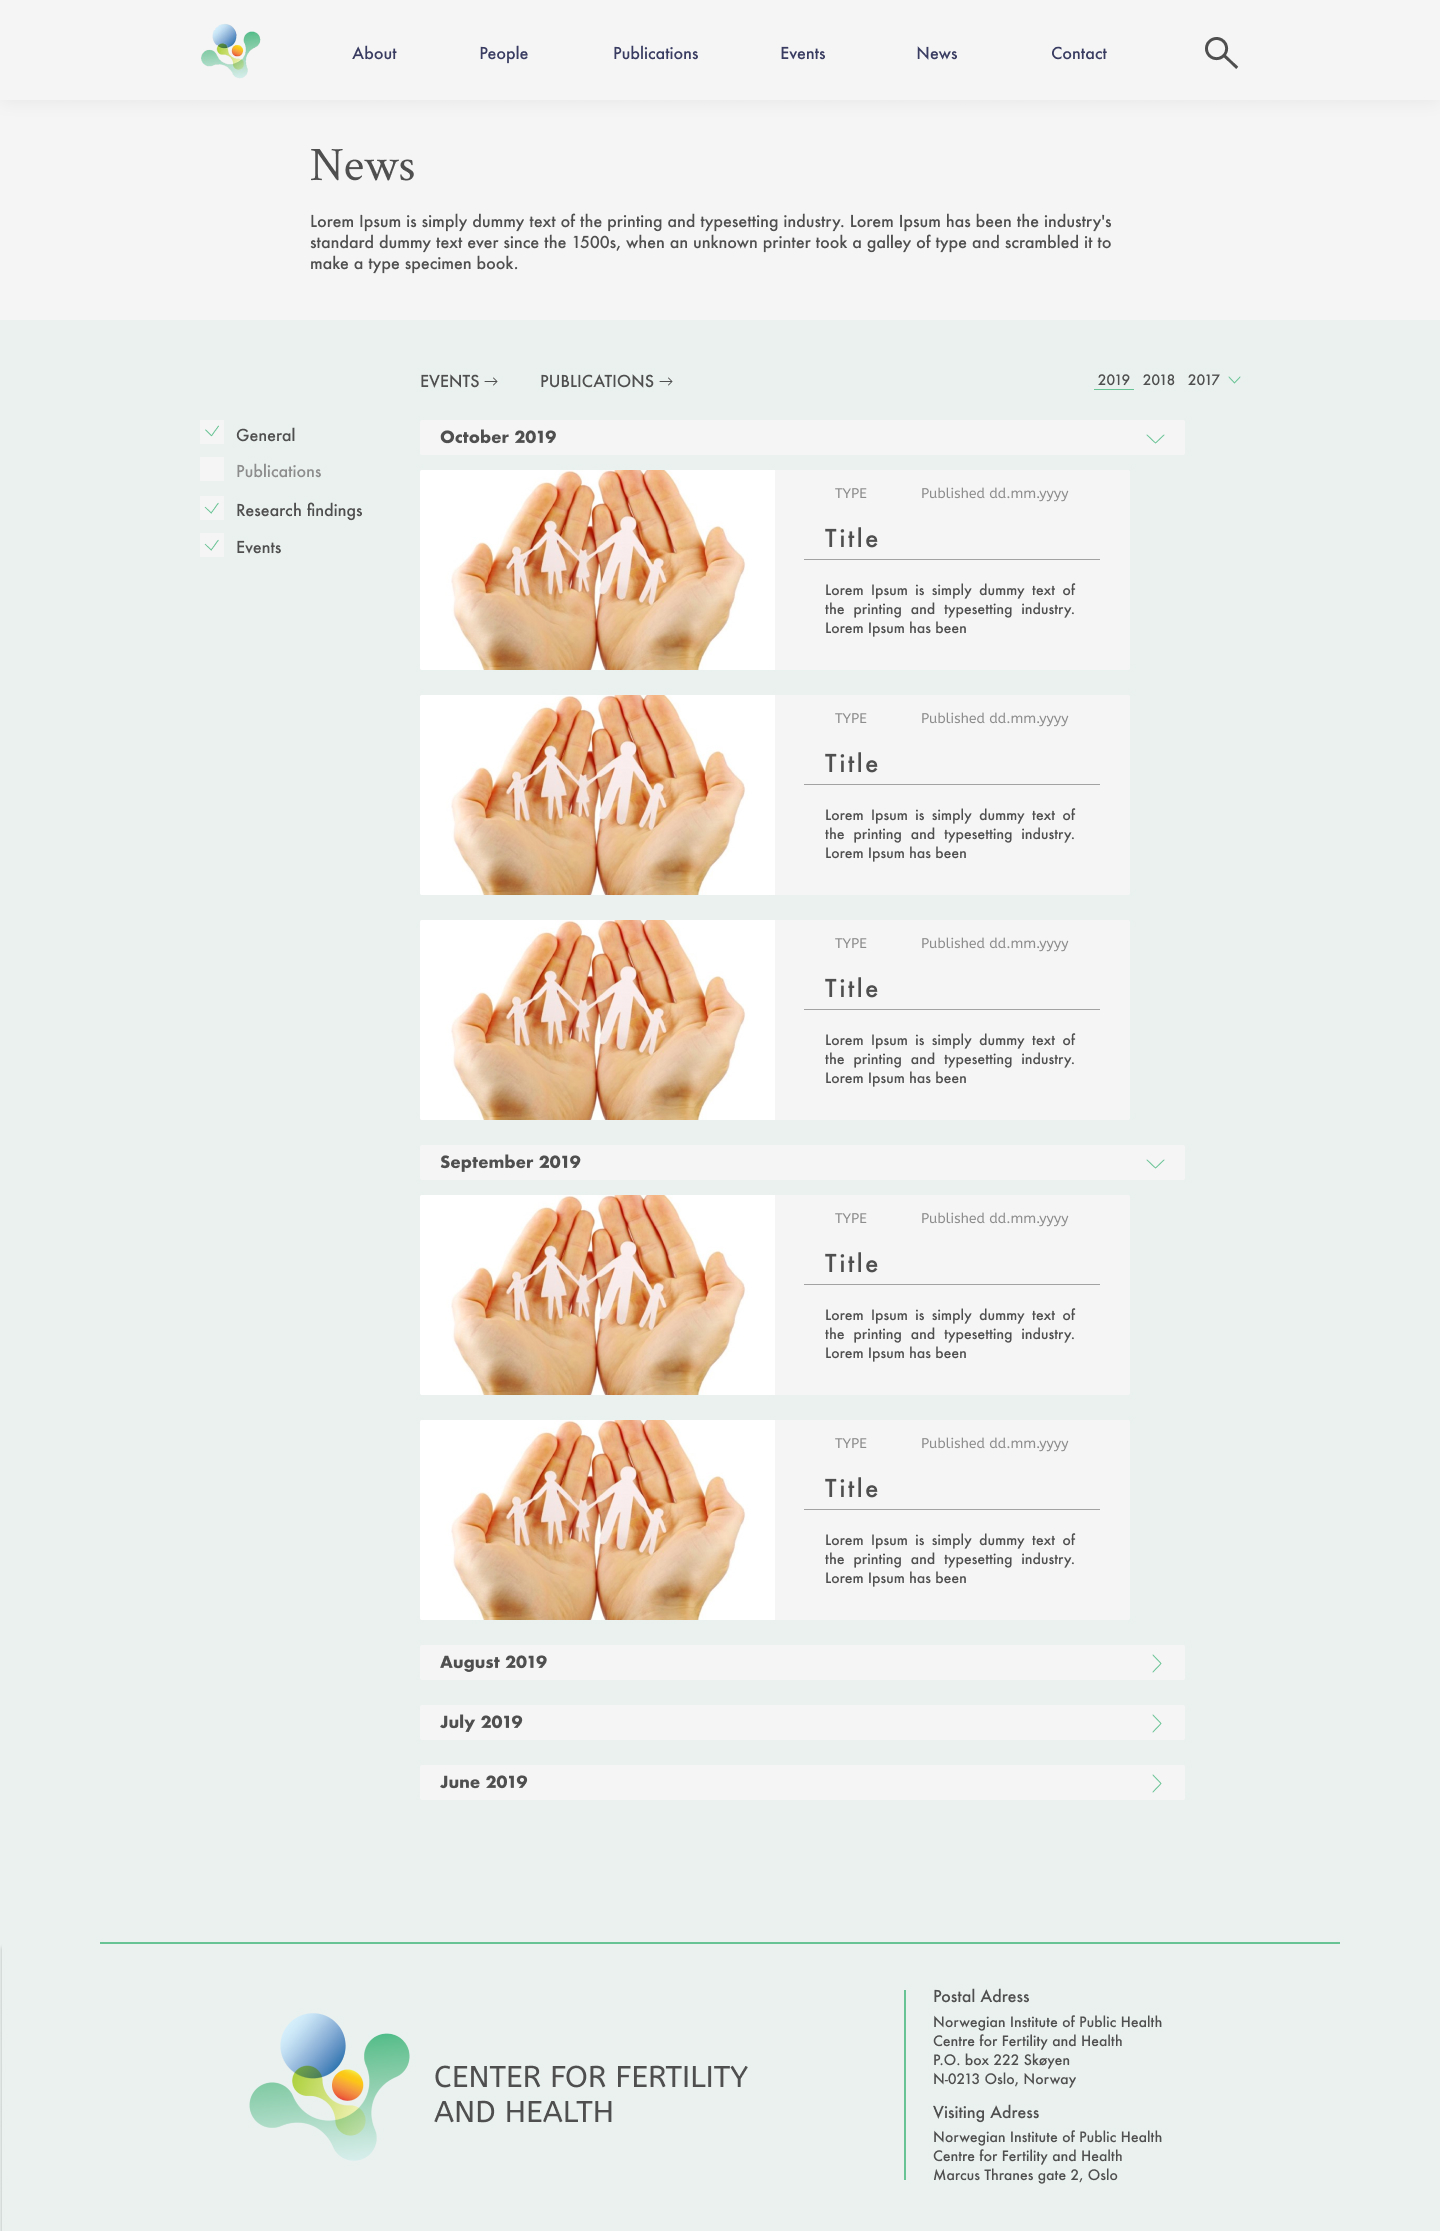
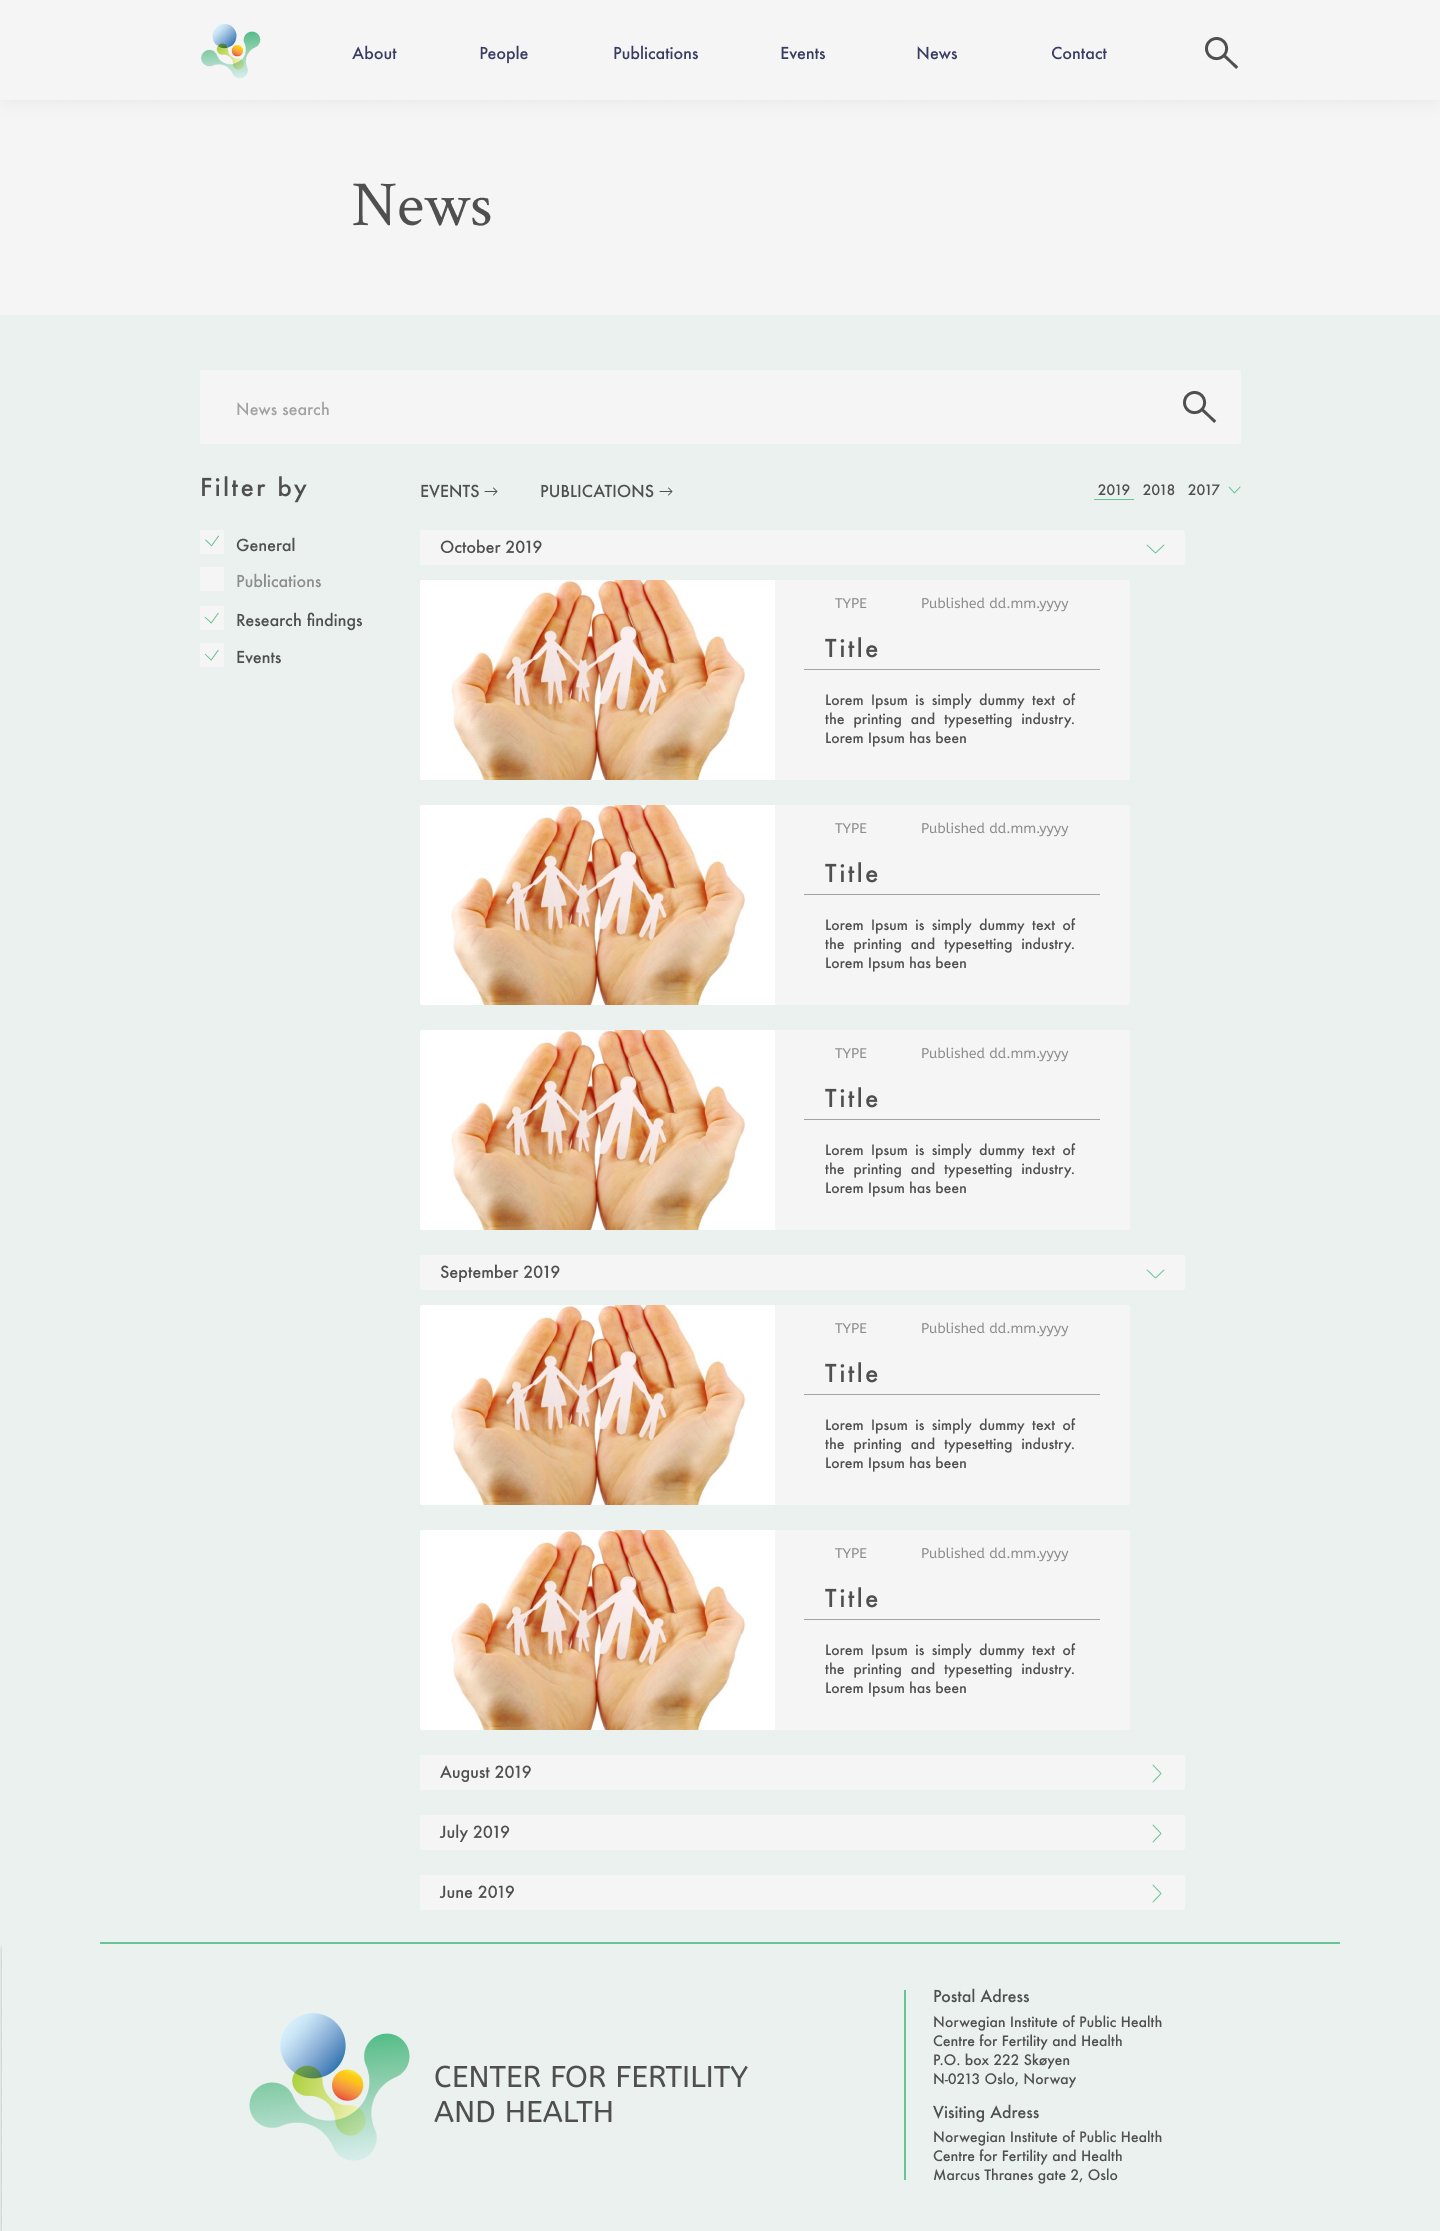
a

diff --git a/P2.html b/P2.html
@@ -65,7 +65,7 @@
           <ul id="Fonts">
             <li class="sublistparent">Header
                 <ul class="sublist">
-                    <li>Crimson text, bold, 64pt</li>
+                    <li>Crimson text, regular, 64pt</li>
                 </ul>
             </li>
             <li class="sublistparent">Sub-header 1
@@ -75,7 +75,7 @@
             </li>
             <li class="sublistparent">Sub-header 2
                 <ul class="sublist">
-                    <li>Futura, bold, 24pt, letter spacing 10%</li>
+                    <li>Futura, medium, 24pt, letter spacing 10%</li>
                 </ul>
             </li>
             <li class="sublistparent">Body text 1
@@ -85,7 +85,7 @@
             </li>
             <li class="sublistparent">Body text 2
                 <ul class="sublist">
-                    <li>Futura, light, 14pt</li>
+                    <li>Futura, medium, 14pt</li>
                 </ul>
             </li>
           </ul>
@@ -259,12 +259,13 @@
                   <p> The news-page will showcase the centres newsfeed, divided into months and years.
                     “News” includes everything with mentioning at the centre; visits, events, publications etc.
                     Each of the articles will have a tag to describe what kind of “news” it is.
-                    It will be possible to filter the news based on the aforementioned tags.</p>
+                    It will be possible to filter the news based on the aforementioned tags.
+                    Below the header there will be a search field where it is possible to search for specific news</p>
                   <img class="mockup" alt="news mockup" src="./img/News.jpg"/>
                   <p>The news are presented as boxes on the right site, containing a picture, title, tag, publication date and a short synopsis.
                     Each of the month-branches can be collapsed to easier navigate the news-feed.
                     When you click on an article, you will be taken to the relevant page.</p>
-                  <p>Right below the description banner at the top, there are links to the publications- and events-site for easy access to the most relevant pages regarding the news feed.</p>
+                  <p>Right below the search field at the top, there are links to the publications- and events-site for easy access to the most relevant pages regarding the news feed.</p>
                 </li>
                 <!-- Contact -->
                 <li>contact.html
